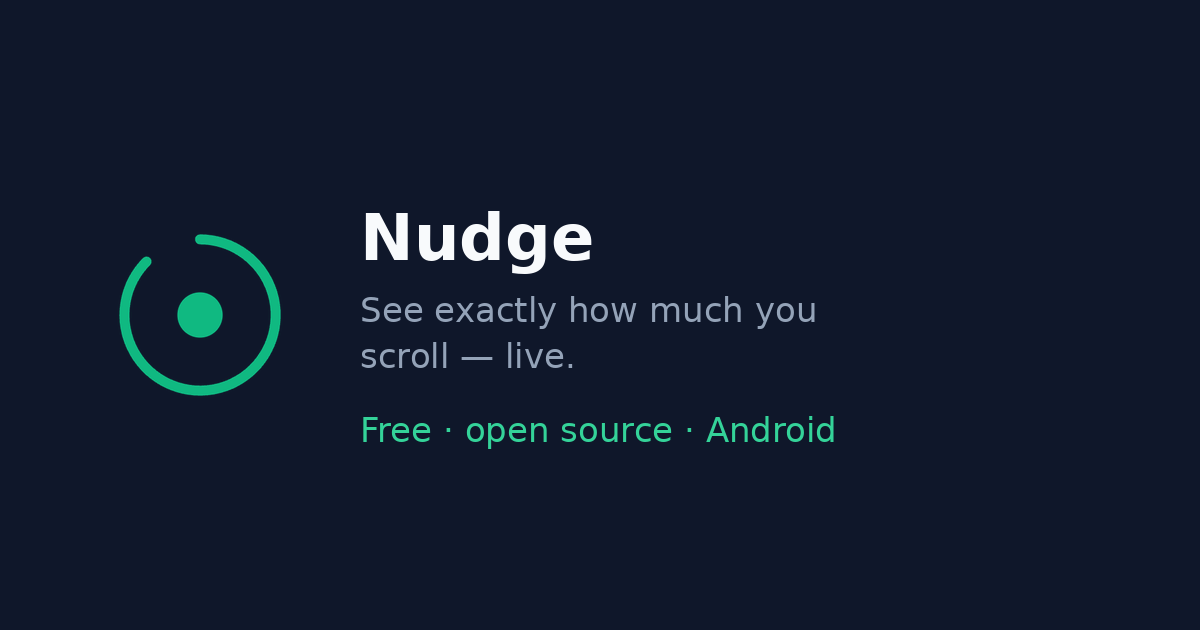
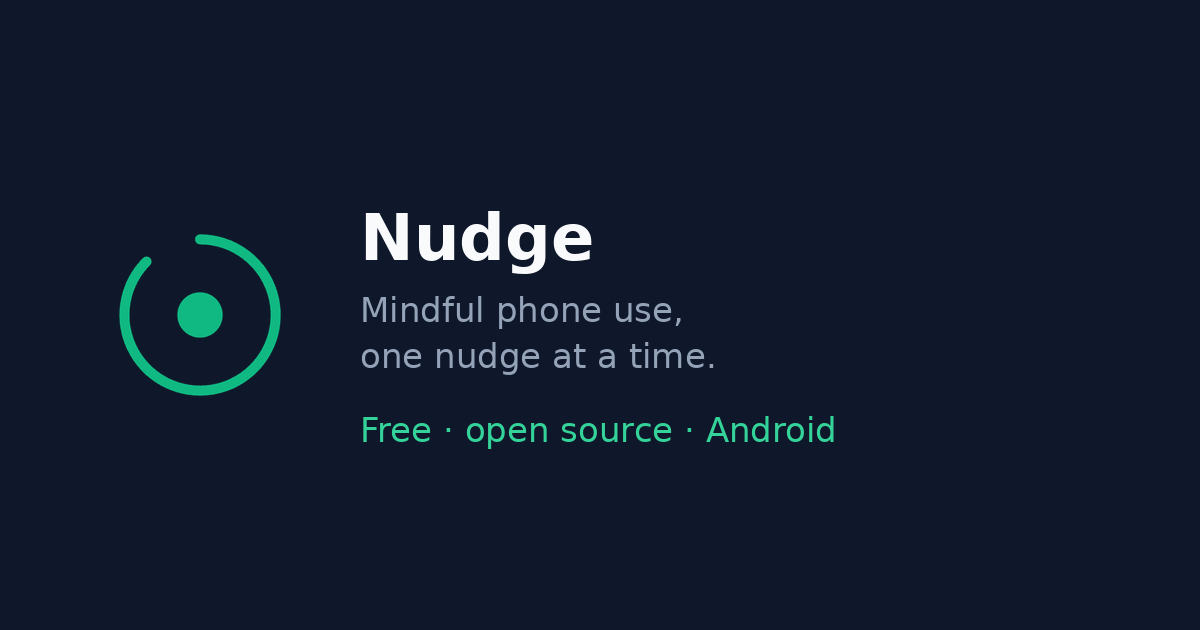
Landing page: lead with mindful phone use, not just scrolling
- New headline "Mindful phone use, one nudge at a time." with a subhead
  covering the wellness score, live counter and gentle nudges.
- Feature cards now include the daily wellness score and the three-step
  nudges (amber bubble, notification, full-screen break prompt with
  Ignore always available); trends card mentions score/unlocks/time.
- Title, meta description, Open Graph text and share image updated to
  match; headings use balanced wrapping.

Claude-Session: https://claude.ai/code/session_01HEbPH2Sv87VsjmY4EFsoVs

Changed region(s): [[0.3083, 0.5429, 0.5858, 0.6032], [0.2775, 0.4524, 0.6783, 0.5127]]

diff --git a/docs/index.html b/docs/index.html
@@ -6,21 +6,21 @@
   <!-- Regenerated by scripts/build_site.py from docs/config.js -->
   <meta http-equiv="Content-Security-Policy" data-csp-tpl content="default-src 'none'; script-src 'self'; style-src 'self'; img-src 'self' data:; media-src 'self'; connect-src 'self' https://mvfdwgcknmskadhlujgk.supabase.co; base-uri 'none'; form-action 'none'">
   <meta name="referrer" content="no-referrer">
-  <title>Nudge — see exactly how much you scroll</title>
-  <meta name="description" content="Nudge is a free, open-source Android app that shows a live floating bubble counting your scrolls across every app. No account, no ads, counting stays on your phone.">
+  <title>Nudge — mindful phone use, one nudge at a time</title>
+  <meta name="description" content="Nudge is a free, open-source Android app that gives you a daily wellness score for your phone use, a live scroll counter, and gentle nudges when you go past your own limits. No account, no ads, your data stays on your phone.">
   <meta name="theme-color" content="#0F172A">
   <link rel="canonical" data-href-tpl="{PAGES_URL}" href="https://nituls265.github.io/Nudge/">
   <link rel="icon" type="image/png" sizes="32x32" href="favicon-32.png">
   <link rel="apple-touch-icon" href="apple-touch-icon.png">
   <meta property="og:type" content="website">
   <meta property="og:site_name" content="Nudge">
-  <meta property="og:title" content="Nudge — see exactly how much you scroll, live">
-  <meta property="og:description" content="A live floating bubble that counts your scrolls across every app. Free, open source, privacy-first. Android.">
+  <meta property="og:title" content="Nudge — mindful phone use, one nudge at a time">
+  <meta property="og:description" content="A daily wellness score, a live scroll counter, and gentle nudges when you go past your own limits. Free, open source, privacy-first. Android.">
   <meta property="og:url" data-content-tpl="{PAGES_URL}" content="https://nituls265.github.io/Nudge/">
   <meta property="og:image" data-content-tpl="{PAGES_URL}og-image.png" content="https://nituls265.github.io/Nudge/og-image.png">
   <meta property="og:image:width" content="1200">
   <meta property="og:image:height" content="630">
-  <meta property="og:image:alt" content="Nudge logo with the tagline: See exactly how much you scroll — live.">
+  <meta property="og:image:alt" content="Nudge logo with the tagline: Mindful phone use, one nudge at a time.">
   <meta name="twitter:card" content="summary_large_image">
   <link rel="stylesheet" href="style.css">
   <script src="config.js" defer></script>
@@ -46,8 +46,8 @@
   <main id="main">
     <!-- 1. Hero -->
     <section class="hero wrap" id="top" aria-labelledby="hero-title">
-      <h1 id="hero-title">See exactly how much you scroll — live.</h1>
-      <p class="lede">A small floating bubble sits on top of whatever app you’re using and counts every scroll as it happens, so the number is always in front of you.</p>
+      <h1 id="hero-title">Mindful phone use, one nudge at a time.</h1>
+      <p class="lede">A daily wellness score, a live scroll counter, and gentle nudges when you go past your own limits.</p>
 
       <div class="cta-row">
         <a class="btn btn-primary js-download" id="hero-download"
@@ -92,12 +92,20 @@
       <h2 id="features-title">What you get</h2>
       <ul class="feature-grid">
         <li class="card">
+          <h3>Daily wellness score</h3>
+          <p>One score from 0 to 100, built from scroll volume, session length, unlocks, bedtime habits and the apps you use, so a heavy day tells you why, not just that it was heavy.</p>
+        </li>
+        <li class="card">
           <h3>Live bubble</h3>
           <p>A draggable counter floats over every app and ticks up with each scroll. It snaps to the screen edge and stays out of the way.</p>
         </li>
         <li class="card">
+          <h3>Gentle nudges</h3>
+          <p>Go past your own limits and the bubble glows amber. Keep going and you get a notification, then a full-screen prompt to take a short break. Ignore is always an option.</p>
+        </li>
+        <li class="card">
           <h3>7, 30 and 90-day trends</h3>
-          <p>See today’s total, your daily average and your peak hour, with charts for the last week, month or three months.</p>
+          <p>Follow your score, scrolls, unlocks and screen time over the last week, month or three months, plus your peak hour.</p>
         </li>
         <li class="card">
           <h3>Per-app breakdown</h3>
@@ -105,7 +113,7 @@
         </li>
         <li class="card">
           <h3>Privacy-first</h3>
-          <p>No account and no ads. Your counts are stored on your phone, and the code is open source under Apache 2.0.</p>
+          <p>No account and no ads. Your data is stored on your phone, and the code is open source under Apache 2.0.</p>
         </li>
       </ul>
 

diff --git a/docs/style.css b/docs/style.css
@@ -34,7 +34,7 @@ a:hover { text-decoration-thickness: 2px; }
 
 :focus-visible { outline: 3px solid var(--accent); outline-offset: 3px; border-radius: 6px; }
 
-h1, h2, h3 { line-height: 1.2; margin: 0 0 0.6em; letter-spacing: -0.01em; }
+h1, h2, h3 { line-height: 1.2; margin: 0 0 0.6em; letter-spacing: -0.01em; text-wrap: balance; }
 h1 { font-size: clamp(2rem, 7vw, 3.5rem); font-weight: 800; }
 h2 { font-size: clamp(1.5rem, 4.5vw, 2.1rem); font-weight: 750; text-align: center; }
 h3 { font-size: 1.15rem; font-weight: 700; }
@@ -65,7 +65,7 @@ nav a:hover { color: var(--text); }
 /* Sections */
 main > section { padding-top: 56px; padding-bottom: 56px; }
 .hero { text-align: center; padding-top: 64px; }
-.lede { color: var(--muted); font-size: clamp(1.05rem, 2.6vw, 1.25rem); max-width: 40rem; margin: 0 auto 1.6em; }
+.lede { text-wrap: balance; color: var(--muted); font-size: clamp(1.05rem, 2.6vw, 1.25rem); max-width: 40rem; margin: 0 auto 1.6em; }
 .fine { color: var(--muted); font-size: 0.92rem; }
 .center { text-align: center; }
 
@@ -166,5 +166,5 @@ input[aria-invalid="true"] { border-color: var(--danger); }
 @media (min-width: 56rem) {
   .two-col { grid-template-columns: 1fr 1fr; }
   .get-grid { grid-template-columns: repeat(3, 1fr); }
-  .feature-grid { grid-template-columns: repeat(4, 1fr); }
+  .feature-grid { grid-template-columns: repeat(3, 1fr); }
 }
